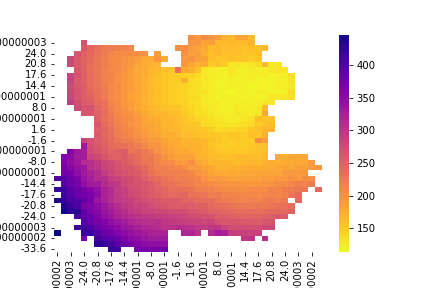
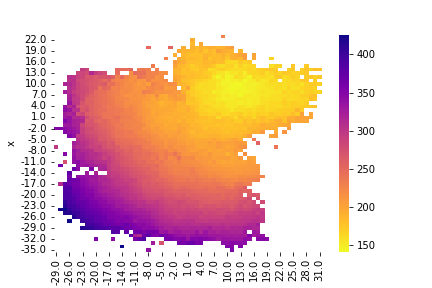
added statistics, needs normalizing

diff --git a/map_elites.py b/map_elites.py
@@ -150,9 +150,11 @@ class SolutionArchive:
         self.perf_map = {}
         self.archive_res = res
         
-        coord_max = 5.12*20
-        coord_min = -5.12*20
+#         coord_max = 5.12*20
+#         coord_min = -5.12*20
         # using max/min values as -250 to 250 static values
+        coord_max = 250
+        coord_min = -250
         print("res = ", self.archive_res)
         self.interval = (coord_max-coord_min) / self.archive_res
         print("interval = ", self.interval)
@@ -160,7 +162,7 @@ class SolutionArchive:
     def add_solution(self, solution):
         # find the new behavior and fitness of the generated solution
         #sol_behavior = solution.behavior()
-        sol_idx = self.findIndex(solution)
+        sol_idx = self.find_index(solution)
         sol_performance = solution.fitness
         
         #update the maps with this is a new/better solution
@@ -170,13 +172,25 @@ class SolutionArchive:
             self.perf_map[sol_idx] = sol_performance
             self.sols_map[sol_idx] = solution
         
-    def findIndex(self, solution):
+    def find_index(self, solution):
         #using max/min values as -250 to 250 static values
         sol_behaviorA, sol_behaviorB = solution.behavior()
         sol_behaviorA = sol_behaviorA // self.interval
         sol_behaviorB = sol_behaviorB // self.interval
         
         return sol_behaviorA * self.interval, sol_behaviorB * self.interval
+    
+    def qd_score(self):
+        perf_sum = 0;
+        for value in self.perf_map.values():
+            perf_sum += value
+        return perf_sum
+    
+    def cells_occupied(self):
+        num_cells = len(self.sols_map)
+        num_total = self.archive_res * self.archive_res
+        return (num_cells / num_total) * 100
+        
     
     def random_solution(self):
         random_desc, random_sol = random.choice(list(self.sols_map.items()))

diff --git a/run_map_elites.py b/run_map_elites.py
@@ -39,7 +39,8 @@ num_initial = 100
 mutation_power = 0.5
 # solutions_map = {}
 # performance_map = {}
-archive_res = 128
+archive_res = 500
+# archive_res = 128
 pop_size = 540
 solutions_archive = SolutionArchive(archive_res)
 
@@ -54,6 +55,13 @@ print("Current Time =", current_time)
 ToyDomainSolution.find_map_elites(solutions_archive, num_iterations, num_initial, mutation_power, num_dims, sphere, pop_size)
 solutions_archive.generate_heatmap(-1)
 print('all done')
+
+print('qd score: ')
+print(solutions_archive.qd_score())
+
+print('% cells occupied: ')
+print(solutions_archive.cells_occupied() , '%')
+
 
 print("End time:")
 now = datetime.now()
